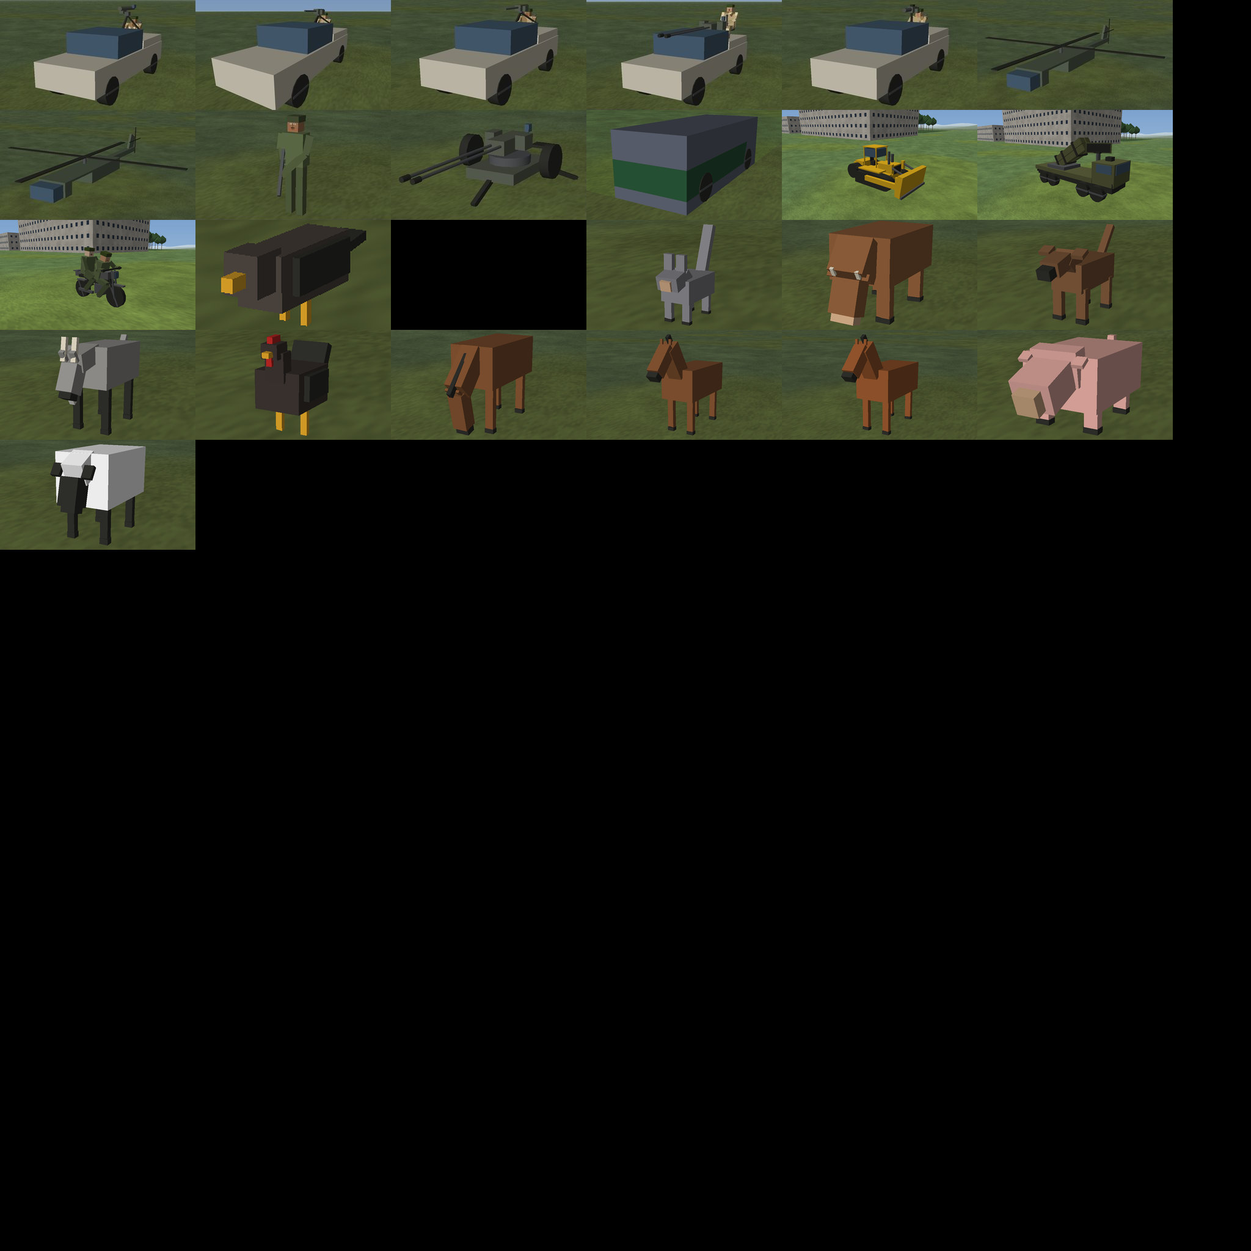
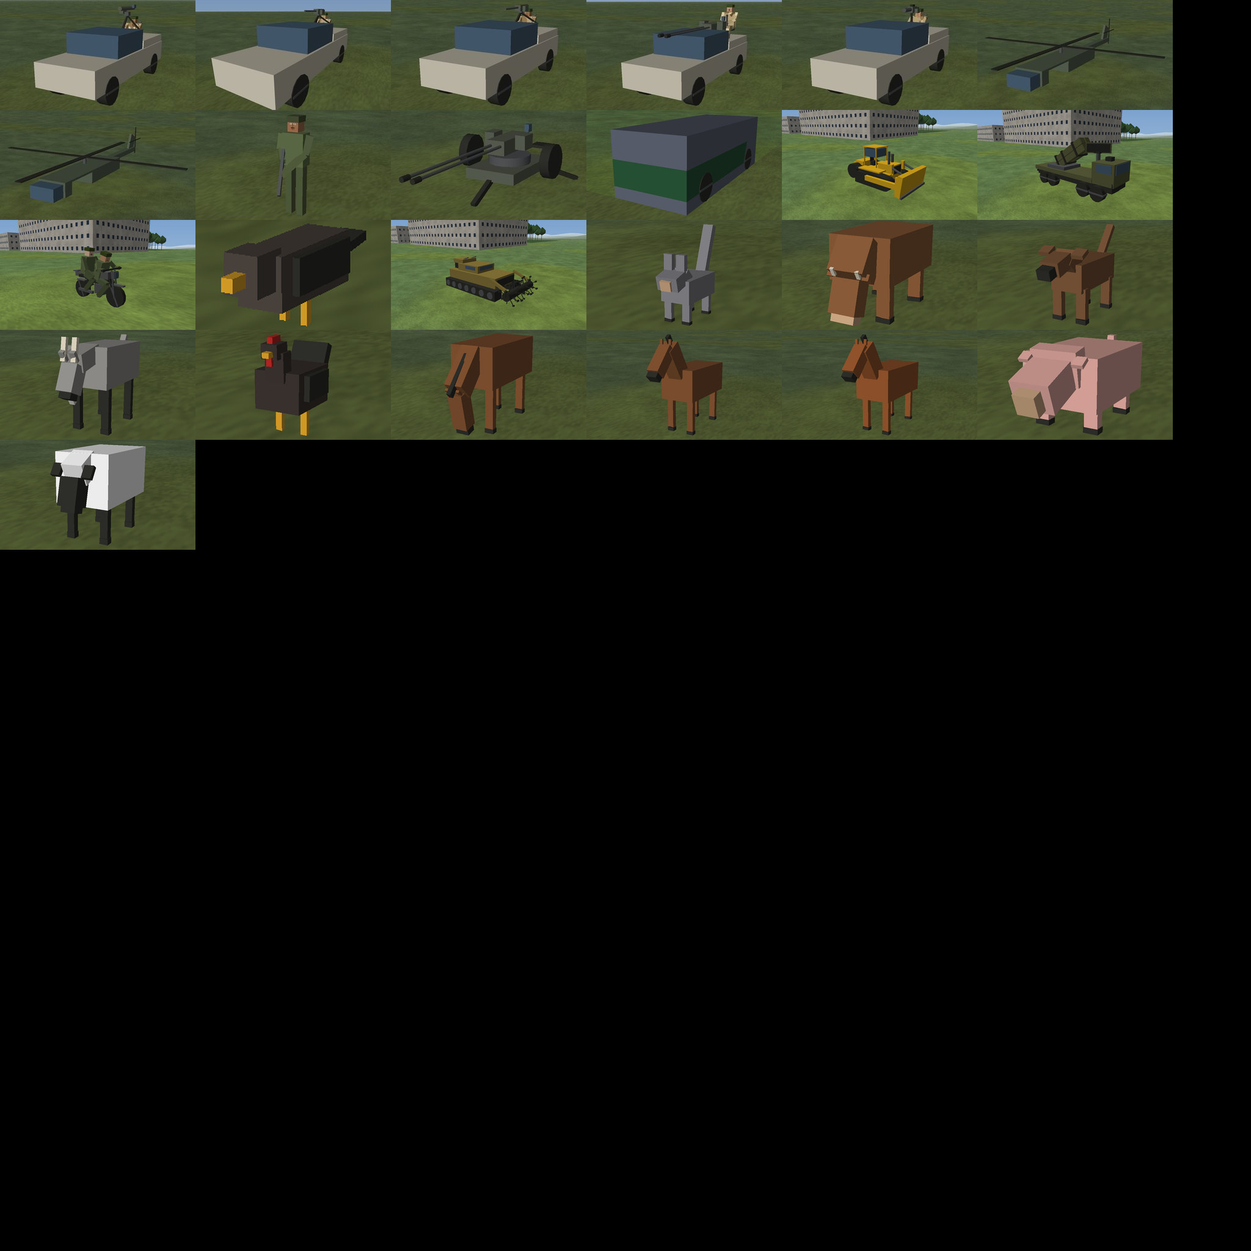
minefields MS-U4 (CE-4624): bound to terrain's TKB 116 / class MineClearer — FamilyOfClass, the catalog goldens (116 line, 8830's folder), the picker thumbnail (atlas 91), the real type in the rails
Claude-Session: https://claude.ai/code/session_018A6b3V2pAUU7h7gX44hUPF

Changed region(s): [[0.3125, 0.1562, 0.4688, 0.2812]]

diff --git a/Hrot/Engine/Hrot.Presentation.Tests/Map3D/MineClearerModelRail.cs b/Hrot/Engine/Hrot.Presentation.Tests/Map3D/MineClearerModelRail.cs
@@ -20,15 +20,14 @@ namespace Hrot.Presentation.Tests.Map3D;
 /// with no turret), a line-charge launcher at the rear top, two arms forward to a flail drum with chains that SPINS while the flail is on. The kit lies inside its 9.2 × 3.5 × 3.3 m box on
 /// the ground; the drum turns about its lateral axis and nothing else moves; the motion that spins it allocates nothing; the one <see cref="FlailActivity"/> reader is a stand-in until
 /// terrain's flail state lands; the real 3-D frame draws it (side, three-quarter, rear, from above) into <c>HROT_RAIL_SHOTS</c> as <c>clearer-*.png</c>.
-/// ⚠ Terrain's type 116 / class <c>MineClearer</c> have not landed, so the frame rail PINS the look of a stand-in type (<c>EntityBodyLayer3D.PinLook</c>); at the re-bind the family maps through
-/// <c>FamilyOfClass</c> and this rail draws the real type. ⛔ The frame test SKIPS without a display: <c>xvfb-run -a dotnet test … --filter FullyQualifiedName~MineClearerModelRail</c>.
+/// ✅ Bound (2026-11-16) to terrain's TKB 116 / class <c>MineClearer</c>: the family maps through <c>FamilyOfClass</c> and the frame rail draws the REAL type through the real catalogue. ⛔ The frame test SKIPS without a display: <c>xvfb-run -a dotnet test … --filter FullyQualifiedName~MineClearerModelRail</c>.
 /// 🔴 Red-proof: the drum role's rotation removed from <c>BodyTransform</c> fails the drum rails.
 /// </summary>
 [Collection(Map3DFrameRail.Serial)]
 public sealed class MineClearerModelRail
 {
     private static readonly Vector3 Size = ShapeKits.DefaultSize(VisualFamily.MineClearer);
-    private const long StandInType = 91160L;   // not a TKB type: terrain's 116 has not landed (the look is pinned)
+    private const long ClearerType = TkbEntityTypes.Engineer_MineClearer;   // ✅ terrain's TKB 116, through the real catalogue
 
     private static Vector3 At(KitPart p, MotionPose motion, Vector3? local = null)
         => Vector3.Transform(local ?? Vector3.Zero, p.BodyTransform(Size, default, ArticulationPose.Neutral, motion));
@@ -44,8 +43,22 @@ public sealed class MineClearerModelRail
         var olive = EntityBodyLayer3D.DefaultColour(VisualFamily.MineClearer);
         Assert.NotEqual(EntityBodyLayer3D.DefaultColour(VisualFamily.Unknown), olive);
         Assert.True(olive.G > olive.B + 20 && olive.R < 140, $"an olive green, got {olive}");
-        // ⭐ not yet bound to a class: terrain declares "MineClearer" first (CE2138 requires the class to exist in EntityClassTable)
-        Assert.False(VisualFamilies.FamilyOfClass.ContainsKey("MineClearer"), "bound at the re-bind, with terrain's class — see the VisualFamily.MineClearer doc");
+        // ✅ bound to terrain's class (CE-4624, 2026-11-16): "MineClearer" = DIS 1.1.*.9.2, the REAL type 116 through the real catalogue
+        Assert.Equal(VisualFamily.MineClearer, VisualFamilies.FamilyOfClass["MineClearer"]);
+    }
+
+    /// <summary>⭐ CE-4624 — terrain's TKB 116 (<c>Engineer_MineClearer</c>) resolves to the family, its kit, its own 9.0 × 4.4 × 3.2 m box and its dull-olive colour (the TKB's own wins over the default).</summary>
+    [Fact]
+    public void TheRealType116_ResolvesToTheMineClearerFamily_ItsKit_TheTkbsBox_AndColour()
+    {
+        var tkb = Map3DTests.BuiltIn();
+        var t = tkb.GetByType(TkbEntityTypes.Engineer_MineClearer)!;
+        Assert.Equal(VisualFamily.MineClearer, VisualFamilies.Of(t));
+        var look = EntityBodyLayer3D.Resolve(t);
+        Assert.Equal(VisualFamily.MineClearer, look.Family);
+        Assert.Same(ShapeKits.MineClearer, EntityBodyLayer3D.KitOf(look));
+        Assert.Equal(new Vector3(9.0f, 4.4f, 3.2f), look.Size);
+        Assert.True(look.Colour.R > look.Colour.B + 40 && look.Colour.G > look.Colour.B, $"the TKB's dull olive, got {look.Colour}");
     }
 
     [Fact]
@@ -217,7 +230,7 @@ public sealed class MineClearerModelRail
             if (forScale) scale.Add(e);
             return e;
         }
-        var clearer = Put(StandInType, 0f, 0f);
+        var clearer = Put(ClearerType, 0f, 0f);
         Put(TkbEntityTypes.Tank_T72, 0f, 12f, forScale: true);
         Put(TkbEntityTypes.Infantry_Rifleman, 6f, -5f, forScale: true);
         bool flailOn = false;
@@ -230,7 +243,6 @@ public sealed class MineClearerModelRail
             var two = new MapCamera();
             canvas.Camera = two;
             var bodies = new EntityBodyLayer3D(() => world, () => tkb);
-            bodies.PinLook(StandInType, new EntityBodyLayer3D.TypeLook(VisualFamily.MineClearer, Size, EntityBodyLayer3D.DefaultColour(VisualFamily.MineClearer), false));
             var sw = new MapViewSwitch(canvas, two);
             sw.Camera3D.GroundHeight = (x, y) => G(x, y);
             canvas.AddLayer(new TerrainLayer3D(() => WorldQuery.RenderGeometryOf(world)));

diff --git a/Hrot/Engine/Hrot.Presentation.Tests/AddEntity/EntityTypeCatalogTests.cs b/Hrot/Engine/Hrot.Presentation.Tests/AddEntity/EntityTypeCatalogTests.cs
@@ -344,8 +344,8 @@ public sealed class EntityTypeCatalogTests
         // ⭐ CE-4273 (Next_2 A-10) — the seed's 75 + the Car. ⛔ SUPERSEDED: "slot = position in sorted order" — true of the seed only; §2j says a name
         //   KEEPS its slot and an addition takes the next free one (the Car sorts among the C's and sits in slot 75). The invariant now: one cell per
         //   name, on the grid, inside the pages.
-        Assert.Equal(90, idx.Count);   // ⭐ CE-4623 AU-2 — + the 11 animal thumbnails (80cc7fdda); ⭐ CE-6007 — + the bulldozer (page 1, slot 4/1); ⭐ CE-4618 — + the radar SAM truck (page 1, slot 5/1); ⭐ CE-4621 — + the motorcycle (page 1, slot 0/2)
-        Assert.Equal(90, ThumbnailAtlas.Shared.Count);
+        Assert.Equal(91, idx.Count);   // ⭐ CE-4623 AU-2 — + the 11 animal thumbnails (80cc7fdda); ⭐ CE-6007 — + the bulldozer (page 1, slot 4/1); ⭐ CE-4618 — + the radar SAM truck (page 1, slot 5/1); ⭐ CE-4621 — + the motorcycle (page 1, slot 0/2); ⭐ CE-4624 — + the mine clearer (page 1, slot 2/2)
+        Assert.Equal(91, ThumbnailAtlas.Shared.Count);
         Assert.True(idx.TryGet("Car", out _, out _, out _, out _, out _));
 
         var names = idx.Names.ToList();
@@ -610,6 +610,7 @@ public sealed class EntityTypeCatalogTests
         113 HMMWV (drone jammer) | dis 1.1.225.6.9.0.0 | family WheeledUtility | folder Platform/Land/United States/Small Wheeled Utility Vehicle | icon _wheeled
         114 Radar SAM vehicle | dis 1.1.222.28.1.0.0 | family AirDefenceVehicle | folder Platform/Land/Russia/Air Defence Vehicle | icon _wheeled
         115 Motorcycle | dis 1.1.0.80.1.0.0 | family Motorcycle | folder Platform/Land/Motorcycle | icon _motorcycle
+        116 Mine Clearer (engineer tank) | dis 1.1.225.9.2.0.0 | family MineClearer | folder Platform/Land/United States/Large Tracked Utility Vehicle | icon _tank
         200 Rifleman | dis 3.1.225.1.0.0.0 | family Person | folder Life Form/Land/United States/Infantry (HROT) | icon _person
         201 Officer | dis 3.1.225.1.0.0.0 | family Person | folder Life Form/Land/United States/Infantry (HROT) | icon _person
         202 Rifleman (Stinger) | dis 3.1.225.1.0.0.0 | family Person | folder Life Form/Land/United States/Infantry (HROT) | icon _person
@@ -703,7 +704,7 @@ public sealed class EntityTypeCatalogTests
         8820 Barrel | dis 5.0.0.0.0.0.0 | family Unknown | folder Cultural Feature | icon -
         8821 Jersey barrier | dis 5.0.0.0.0.0.0 | family Unknown | folder Cultural Feature | icon -
         8822 Guard booth | dis 5.0.0.0.0.0.0 | family Unknown | folder Cultural Feature | icon -
-        8830 Minefield | dis 5.0.0.91.0.0.0 | family Unknown | folder Cultural Feature/Category 91 | icon -
+        8830 Minefield | dis 5.0.0.91.0.0.0 | family Unknown | folder Cultural Feature/Minefield (HROT) | icon -
         8850 Traffic | dis - | family Unknown | folder Other | icon -
         8851 SUMO car | dis 1.1.0.81.0.0.0 | family WheeledCar | folder Platform/Land/Car | icon _wheeled
         8860 Objective | dis - | family Unknown | folder Other | icon -

diff --git a/Hrot/Engine/Hrot.Presentation/Map3D/VisualFamily.cs b/Hrot/Engine/Hrot.Presentation/Map3D/VisualFamily.cs
@@ -67,8 +67,7 @@ public enum VisualFamily : byte
     Goat,
     /// <summary>⭐ CE-4624 (docs/designs/minefields/DESIGN_Minefields.md §3a, MS-U4) — the mine-clearing vehicle (class <c>MineClearer</c>, DIS <c>1.1.*.9.2</c>, TKB 116 <c>Engineer_MineClearer</c>):
     /// a tracked engineer carrier with a line-charge launcher at the rear and a FLAIL drum on two arms in front that spins while the flail is on (<see cref="FlailActivity"/>).
-    /// ⛔ Appended (a byte value others may store), AFTER the animals. ⭐ NOT yet in <see cref="VisualFamilies.FamilyOfClass"/>: the rail <c>CE2138_EveryClassAFamilyOrAvatarNames_IsInTheTable</c> requires the
-    /// class to exist in <see cref="EntityClassTable"/> first, and terrain declares it — bound at the re-bind (add <c>["MineClearer"] = VisualFamily.MineClearer</c>, the ONE line).</summary>
+    /// ⛔ Appended (a byte value others may store), AFTER the animals. ✅ Bound (2026-11-16) to terrain's class: <c>["MineClearer"]</c> in <see cref="VisualFamilies.FamilyOfClass"/>, type 116 through the real catalogue; the kit is scaled to the TKB's 9.0 × 4.4 × 3.2 m box.</summary>
     MineClearer,
 }
 
@@ -107,6 +106,7 @@ public static class VisualFamilies
         ["SelfPropelledArtillery"] = VisualFamily.SpArtillery,   // ⭐ CE-1089 — its own kit (supersedes IF-1 I8's interim tank kit, merged 2026-10-15)
         ["AttackAircraft"] = VisualFamily.AttackJet,    // ⭐ CE-1092 — more specific than Jet, so the A-10 is not an F-16
         ["AttackHelicopter"] = VisualFamily.AttackHelicopter,   // ⭐ CE-1103 — more specific than Helicopter, so the AH-64 is not a UH-60
+        ["MineClearer"] = VisualFamily.MineClearer,     // ⭐ CE-4624 — the mine-clearing vehicle (1.1.*.9.2, TKB 116): bound to terrain's class
         ["Bulldozer"] = VisualFamily.Bulldozer,         // ⭐ CE-6007 — more specific than LargeTrackedUtilityVehicle (which has no family of its own)
         ["Motorcycle"] = VisualFamily.Motorcycle,       // ⭐ CE-4621 — the motorcycle (DIS 1.1.*.80, type 115)
         ["AirDefenceVehicle"] = VisualFamily.AirDefenceVehicle,   // ⭐ CE-4618 — the radar SAM truck (DIS 1.1.*.28, type 114)

diff --git a/docs/DESIGN_Map_3D_Mode.md b/docs/DESIGN_Map_3D_Mode.md
@@ -4386,17 +4386,17 @@ Owner of the TYPES and the behaviour: [DESIGN_Animals.md](designs/animals/DESIGN
 | area (AU-7) | `AnimalAreaOps` + `AnimalAreaDetailsView` (Details tab beside Block): species, count, seed (dice), Enclosed (on for pigs and goats); `AreaAuthoringArm.BornWith(712)` |
 | sound (AU-8) | `AnimalSoundCatalog` 7800–7895, `SoundSynthesizer.Animal` placeholders, `SoundSources.Animals` (rest calls by the closed-form `CallsMade`, alarms, barks, a flock's take-off wings; per-herd throttle; silent after shooting), hooves / wings as movers by `LocomotionClass.Quadruped / Bird`, the birdsong bed lifted by perched birds |
 
-### 6al.4 CE-4624 MS-U4 — the mine clearer: the tracked kit, the spinning flail drum, the flail loop *(ui, `2026-11-16`; build-state: BUILT as a stand-in — kit, drum, loop and rails; the class binding and the flail-active read wait for terrain's type 116 / MS-T4)*
+### 6al.4 CE-4624 MS-U4 — the mine clearer: the tracked kit, the spinning flail drum, the flail loop *(ui, `2026-11-16`; build-state: BUILT and BOUND to terrain's TKB 116 / class `MineClearer` (`2026-11-16`))*
 
 Owner of the TYPE and the behaviour: [DESIGN_Minefields.md](designs/minefields/DESIGN_Minefields.md) §3a (the mine-clearing vehicle row, DIS `1.1.*.9.2`, TKB 116 `Engineer_MineClearer`), MF-9, MR-15, MR-17. Mockup (the acceptance spec, house style R-4143): [`minefields-visuals.svg`](designs/minefields/minefields-visuals.svg) panel "The mine clearer" (`scripts/gen-minefields-mockup.py clearer()`). Precedent mirrored: §6al.1 (the radar SAM's spinning antenna and its ONE reader) and CE-6007 (the bulldozer's stand-in family).
 
 | what | as built |
 |---|---|
-| family | `VisualFamily.MineClearer` (appended after the animals). ⚠ NOT in `FamilyOfClass` yet — `CE2138_EveryClassAFamilyOrAvatarNames_IsInTheTable` needs the class `"MineClearer"` in `EntityClassTable`, which terrain declares; **re-bind: one line** `["MineClearer"] = VisualFamily.MineClearer`. The rail pins the look of a stand-in type (`PinLook`) until then |
+| family | `VisualFamily.MineClearer` (appended after the animals), ✅ in `FamilyOfClass` (`["MineClearer"]`, DIS 1.1.*.9.2); the real TKB 116 resolves to it (family, the kit, the TKB's 9.0 × 4.4 × 3.2 m box — the kit is scaled to it — and its dull-olive colour `#8C7A3A`); picker thumbnail `Mine_Clearer__engineer_tank_` in the atlas (91 pictures) |
 | kit | `ShapeKits.MineClearer`, 9.2 × 3.5 × 3.3 m (measured from the parts, the TKB's own wins): the mockup's metres shifted −1.0 m in x so the box is centred — two track units 7.0 m with seven road-wheel faces each, hull 6.6 × 1.0, superstructure 3.0 × 0.75 (no turret) with vision slits, the launcher box 1.6 × 0.45 on a pedestal at the rear top (x −3.6, z 2.75) with two rails pitched up 18°, two arms pitched down 22° from a front plate to the drum's brackets; engineer olive `(98,108,66)` (`DefaultColour`); 2-D picker glyph `_tank` (tracked; its own `_mineclearer` glyph is a follow-up asset) |
 | flail drum | `PartRole.FlailDrum` + `MotionPose.Flail`: the drum (Ø 0.75, 3.4 m wide, x 3.6, z 0.75) and its 5 rows × 8 chains (staggered half a pitch per row, a ball at each tip, a chain pointing down stops at the ground as the mockup clamps it) all carry the SAME `SwingPivot` (the drum's centre) and turn about its LATERAL axis (`CreateRotationY`, + = the top forward). Nothing else in the kit moves |
 | motion | `MotionTracker` case `MineClearer`: spools over `FlailSpoolSeconds` (1 s) to `FlailRevsPerSecond` (4 rev/s) while `rotorTurning` (= `FlailActivity.IsOn`), winds down and stops when off; the angle advances by the frame clock × the sim's smoothed pace (CE-1353), so a paused sim stops it; floats in the state — 0 B per steady frame (rail) |
-| the reader | `FlailActivity.IsOn(world, entity)` (`Map3D/FlailActivity.cs`) — ⚠ a **STAND-IN returning `false`** until terrain's MS-T4 lands the "plough / flail active" state. **Re-bind: read that state in `IsOn`, the ONE place** (drum and sound both go through it). `internal static Override` is the rails' seam (guarded by the world reference so parallel audio rails cannot see it) |
+| the reader | `FlailActivity.IsOn(world, entity)` (`Map3D/FlailActivity.cs`) — ✅ bound to terrain's `MineClearing` (active + flail tool); `internal static Override` stays as the rails' seam (guarded by the world reference so parallel audio rails cannot see it) |
 | sound | `SoundSources.Movers`: while `FlailActivity.IsOn` the entity also holds a second loop under its own mixer key (`FlailKey`), heard even standing, `FlailLoudness` 1.5 × its engine at `FlailPitch` 1.7 ×. ⚠ **finding:** no flail asset exists — it is the tracked-engine clip (`SoundTkbCatalog.TrackedEngine`) pitched up; a real loop is one clip id in `MovingFor`. `SoundSourceClass` (a shared FDP wire / brain-memory enum) is deliberately NOT extended: the loop needs no class, and adding `Flail` there would change a wire enum for a presentation-only sound |
 | rails | `MineClearerModelRail` (kit box · drum role · motion · 0 B · reader · the real frame, side / ¾ / rear / above, drum spinning vs still; needs a display) · `AudioTests.CE4624_AMineClearersFlailLoops…` |
 

diff --git a/docs/blueprints/batches/STATUS_Ui_Minefields.md b/docs/blueprints/batches/STATUS_Ui_Minefields.md
@@ -16,7 +16,7 @@ Started `411de4f7e` (merged `coordinator@66d47feba`).
 | MS-U1 mockup | ✅ built | `scripts/gen-minefields-mockup.py` → `docs/designs/minefields/minefields-visuals.svg` — the mines are MF-2's derived pattern, not hand-placed |
 | MS-U2 `MinefieldGizmo` | ✅ built against terrain's REAL contract (`25a3f2cf6`); the cells light up when MS-T2's table is real | `MinefieldGizmoRail` 4/0 (truth · known-in-full vs knows-nothing vs gate off · cache + 0 B · the rotated cell); red-proved (a cleared mine left drawn ⇒ red); DESIGN_Minefields §12 · ⭐ FRAME EVIDENCE (R-4146, `2026-11-16`): `MinefieldFrameRail` (2, real frames under `xvfb-run -a`, none skipped) — ⓐ the truth ⓑ a Blue seat, gate on, known at start ⓒ a Blue seat that knows only cells (real `MinefieldKnowledge` records through `PlaceKnowledgeTable`, keyed by `ForceId` — the gizmo already passes the right side) ⓓ the 3-D pickets; deviations fixed: outline SOLID in 2-D (dashed only in 3-D), ⊘ edge symbols in the truth view too (2-D only, `FlatOnly`), larger mine marks, 3-D pickets 2.2 m with a thick red sign, the 2-D fill kept out of 3-D. Not matched (ImGui/gizmo limits): the hatch fill (a light tint instead), the label's box + glyph (plain text), the knowledge grid's cell lines, round-ish cell blob (square patch) |
 | MS-U3 authoring | ✅ built — `MinefieldOps`, the area tool's minefield arm (no overlay, a default `Minefield`), `MinefieldDetailsView`, Add lane (the area tool in LINE mode), the shape lock via `OutlineEditPolicy` | `MinefieldOpsTests` 7 + `MinefieldDetailsViewTests` 3; as built: [DESIGN_Minefields.md §12](../../designs/minefields/DESIGN_Minefields.md). ⚠ no TKB template for 8830 yet (terrain MS-T1) — placing one in the editor needs it |
-| MS-U4 the clearer's kit | ✅ built as a stand-in (family not yet bound to terrain's class; flail-active read is a stand-in returning false) | `MineClearerModelRail` 6 rails (kit box / drum role / motion / 0 B / reader / real frame under `xvfb-run`, side · ¾ · rear · above, drum spinning vs still) + `AudioTests.CE4624_…FlailLoops…` — 15 passed / 0 failed / 0 skipped on the gate filter; red-proof: the drum's `CreateRotationY(motion.Flail)` zeroed ⇒ 2 rails fail (drum role, real frame). As-built: [DESIGN_Map_3D_Mode.md §6al.4](../../DESIGN_Map_3D_Mode.md). **Re-bind (terrain MS-T4 / type 116):** `FamilyOfClass["MineClearer"]`, `FlailActivity.IsOn` body, a flail clip if wanted |
+| MS-U4 the clearer's kit | ✅ BOUND (`2026-11-16`) to terrain's TKB 116 / class `MineClearer`: `FamilyOfClass["MineClearer"]`, the real type through the real catalogue (9.0 × 4.4 × 3.2 m box, the TKB's dull olive), the picker thumbnail (atlas 91), `FlailActivity` on `MineClearing` | `MineClearerModelRail` 7 (incl. `TheRealType116_…`, the frame rail draws type 116) + `AudioTests.CE4624_…`; `EntityTypeCatalogTests` goldens (116 line, 8830's folder) + atlas 91. As built: [DESIGN_Map_3D_Mode.md §6al.4](../../DESIGN_Map_3D_Mode.md) |
 
 ## Lane decisions (for the user's review)
 
@@ -38,7 +38,7 @@ Findings: `CE4271_TheShippedAtlas` was OUR stale count (the 11 animal thumbnails
 Ids allocated: R-1054, R-1055 · CE-1955.
 
 ## Waiting on terrain
-~~MS-T1 munitions, TKB 8830~~ landed and bound (bursts: `EffectTkbCatalog`; the field placeable) · ~~MS-T4 `MineClearing`~~ bound (`FlailActivity`) · ~~runtime lanes~~ drawn · ⏳ MS-T4's TKB 116 template + class `MineClearer` (`FamilyOfClass`, the thumbnail).
+~~MS-T1 munitions, TKB 8830~~ landed and bound (bursts: `EffectTkbCatalog`; the field placeable) · ~~MS-T4 `MineClearing`~~ bound (`FlailActivity`) · ~~runtime lanes~~ drawn · ~~MS-T4's TKB 116 template + class `MineClearer`~~ landed and bound (`FamilyOfClass`, the thumbnail).
 
 ## Morning summary — `2026-11-16`
 
@@ -47,7 +47,7 @@ Ids allocated: R-1054, R-1055 · CE-1955.
 | MS-U1 mockup | ✅ |
 | MS-U2 gizmo | ✅ bound to terrain's real contract (knowledge table, strikes, runtime lanes); frame rails a–d; LIVE in the editor (placed, edited, struck — `NOTE_Ui_To_Terrain_Minefield_Live.md`) |
 | MS-U3 authoring | ✅ picker entry, area-tool birth (no overlay style), the form, Add / Delete lane (line mode), the struck-field shape lock |
-| MS-U4 clearer | ✅ kit, flail drum + loop bound to `MineClearing`, mine bursts; ⏳ `FamilyOfClass["MineClearer"]` + the thumbnail wait for terrain's TKB 116 template / class (not landed at `61cb3b854`) |
+| MS-U4 clearer | ✅ kit, flail drum + loop bound to `MineClearing`, mine bursts; ✅ bound to terrain's TKB 116 / class (`FamilyOfClass`, thumbnail, goldens) |
 | CE-4623 animals | ✅ the area tool re-bound to backend's `AnimalArea` (stand-in id 511 deleted) |
 
 Follow-ups: the picker files the field under "Cultural Feature/Category 91" (the DIS name table has no name for 5.0.*.91 — golden accepted as is); the HTTP API cannot drive the area tool (the live run used the spawn route).

diff --git a/docs/designs/minefields/DESIGN_Minefields.md b/docs/designs/minefields/DESIGN_Minefields.md
@@ -501,4 +501,4 @@ in `EjectionSystemTests.cs:26` only).
 | MS-U2 as-built (frames) | the outline is SOLID in the 2-D map and DASHED in 3-D (two primitives by target); the ⊘ edge symbols (every ~60 m) and the light fill are `Map2D \| FlatOnly` (never in 3-D); 3-D marks the field with pickets 2.2 m tall carrying a red point-down sign; a mine mark is 1.8 m (AP cross) / 2 m (AT square). ⚠ vs the mockup: a tint, not a hatch · the label is plain text, not a boxed glyph · no cell grid lines | `MinefieldFrameRail` (2, xvfb) |
 | MS-U3 authoring | `MinefieldOps` (`AddEntity/`): type · spacing 2…100 · orientation wrapped to [0,360) · seed · anti-handling · known-at-start side · `AddLane` (≤ 8, width 4.5) · `DeleteLane` (compacts) — each ONE undo step, no-op when unchanged; `ShapeLock` (a Struck entry of a `MinefieldStrikes` keyed by the field's `EntityGuid`) and `Counts` (cached per field, 0 B steady). The ONE area tool: `PlacementToolRegistry.Graphics` has "Minefield" (8830); `AreaAuthoringArm.BornWith` drops the `MapOverlayStyle` (MR-8) and adds `MinefieldOps.Default()` (Mixed, 10 m, 0°, seed 1). Form: `MinefieldDetailsView` (`details.minefield`, rank 39, `Hrot.Editor.AiShared/Shell`), the mockup's rows + Lanes (trash = `DeleteLane`) + Add lane. **Add lane = the area tool in LINE mode**: `ScenarioSpawnAdapter.StartLaneAuthoringMode` arms the same `AreaAuthoringArm` (MinPoints 2, open) with a sink that calls `AddLane` with the line's first and last points (click A, click B, Enter / ✓) — no entity is spawned. **Shape lock** through ONE hook, `OutlineEditPolicy` (`ScenarioEditor/Gizmos`): `VertexEditGizmo` asks `ReasonFor(world, entity)` before a move / centre drag / insert / delete and puts the reason on the hint line; the minefield registers `MinefieldOps.OutlineRefusal`. Cross-lane, one line each: `HrotSharedComponentRegistry` registers `Minefield` (terrain's MS-T1 had not); `Icons` keys `minefield/field` (FA land-mine-on, red) and `minefield/lanes` | `MinefieldOpsTests` (7) · `MinefieldDetailsViewTests` (3, frame rail under xvfb) |
 | bound to terrain's MS-T1 / MS-T2 / MS-T4 (part), `2026-11-16` | `FlailActivity.IsOn` = the clearer's `MineClearing` active with the FLAIL (a plough / line charge never turns the drum) · the gizmo draws terrain's RUNTIME lanes (`MinefieldLanes` records, a cached query, 0 B): all for the truth, a side only those it cut (MF-10), known field or not · the mines' bursts (`EffectTkbCatalog`): AP → `ExplosionMedium` + a small scorch, AT and the line charge → `ExplosionHuge` + a large one · the knowledge cells are real (MS-T2) | `MinefieldGizmoRail.ARuntimeLane_…`, `MineClearerModelRail` (the switch) |
-| re-bind still open | `["MineClearer"]` in `FamilyOfClass` + its thumbnail: MS-T4 has not yet registered TKB 116 / the class | — |
+| re-bind ✅ DONE `2026-11-16` | `["MineClearer"]` in `FamilyOfClass`, type 116 through the real catalogue, the picker thumbnail (`Mine_Clearer__engineer_tank_`, atlas 91), the catalog goldens | `MineClearerModelRail.TheRealType116_…`, `EntityTypeCatalogTests` |
